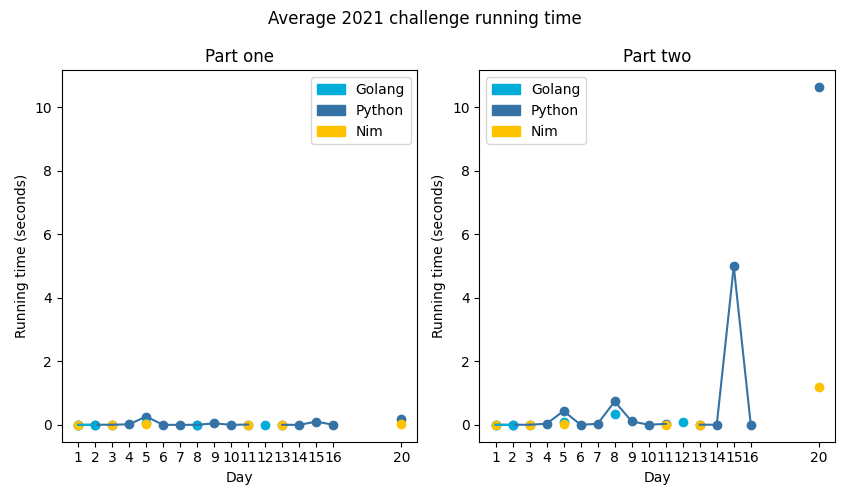
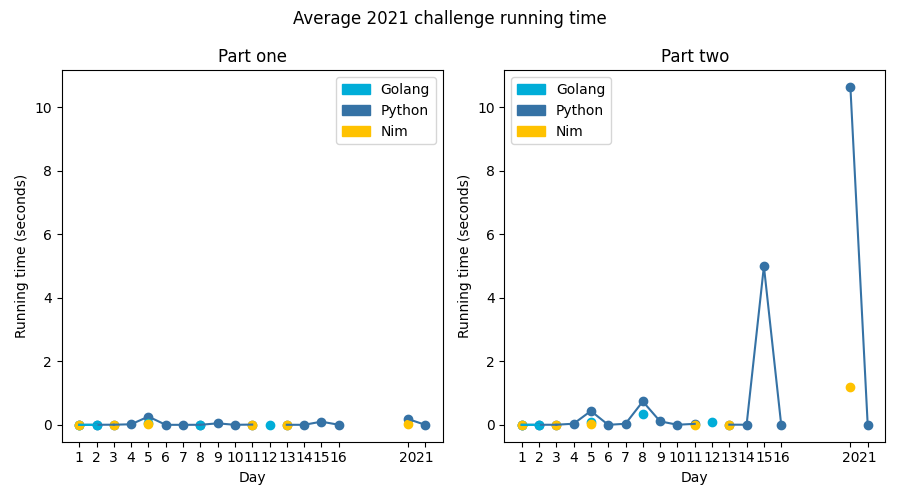
Add 2021-21 in Python (part one only)

diff --git a/challenges/2021/21-diracDice/py/__init__.py b/challenges/2021/21-diracDice/py/__init__.py
@@ -1,0 +1,76 @@
+from typing import Any, List, Tuple
+from aocpy import BaseChallenge
+
+
+class DeterministicDie:
+    num_rolls: int
+
+    def __init__(self, sides: int = 100):
+        self._sides = sides
+        self._n = 0
+        self.num_rolls = 0
+
+    def next_number(self) -> int:
+        self.num_rolls += 1
+        self._n += 1
+        if self._n > self._sides:
+            self._n = 1
+        return self._n
+
+    def next_n_numbers(self, n: int) -> List[int]:
+        o = []
+        for _ in range(n):
+            o.append(self.next_number())
+        return o
+
+
+Player = List[int]  # position, score
+Players = Tuple[Player, Player]
+
+
+def parse(instr: str) -> Players:
+    o = []
+    for line in instr.strip().splitlines():
+        start_pos = int(line.split(": ")[-1])
+        o.append([start_pos, 0])
+    return tuple(o)
+
+
+def get_next_position(current_position: int, steps: int) -> int:
+    n = current_position + (steps % 10)
+    return n if n <= 10 else n - 10
+
+
+def move_player_forwards_by(p: Player, steps: int):
+    p[0] = get_next_position(p[0], steps)
+    p[1] = p[1] + p[0]
+
+
+def get_player_score(p: Player) -> int:
+    return p[1]
+
+
+class Challenge(BaseChallenge):
+    @staticmethod
+    def one(instr: str) -> Any:
+        players = parse(instr)
+        die = DeterministicDie()
+        while True:
+            game_finished = False
+
+            for player in players:
+                forward_steps = sum(die.next_n_numbers(3))
+                move_player_forwards_by(player, forward_steps)
+                if get_player_score(player) >= 1000:
+                    game_finished = True
+                    break
+
+            if game_finished:
+                break
+
+        scores = list(sorted([get_player_score(p) for p in players]))
+        return scores[0] * die.num_rolls
+
+    @staticmethod
+    def two(instr: str) -> int:
+        return NotImplementedError

diff --git a/challenges/2021/README.md b/challenges/2021/README.md
@@ -32,6 +32,7 @@ Solutions to the [2021 Advent of Code](https://adventofcode.com/2021).
 | 18 - Snailfish                      | Could not solve    |                                                                                                         |                                                                                                                                                         |
 | 19 - Beacon Scanner                 | Unattempted        |                                                                                                         |                                                                                                                                                         |
 | 20 - Trench Map \*                  | ★ ★                | [Python](20-trenchMap/py), [Nim](20-trenchMap/nim)                                                      | Took a moment to realise that the infinite grid alternates between lit and unlit, and even then I had to look at someone else's solution to realise it. |
+| 21 - Dirac Dice                     | ★ ☆                | [Python](21-diracDice/py)                                                                               | Couldn't be bothered with part two - I've got too much going on at the moment to spend a lot of time thinking about it.                                 |
 
 <!-- PARSE END -->
 

diff --git a/challenges/2021/21-diracDice/README.md b/challenges/2021/21-diracDice/README.md
@@ -1,0 +1,2 @@
+# [Day 21: Dirac Dice](https://adventofcode.com/2021/day/21)
+
